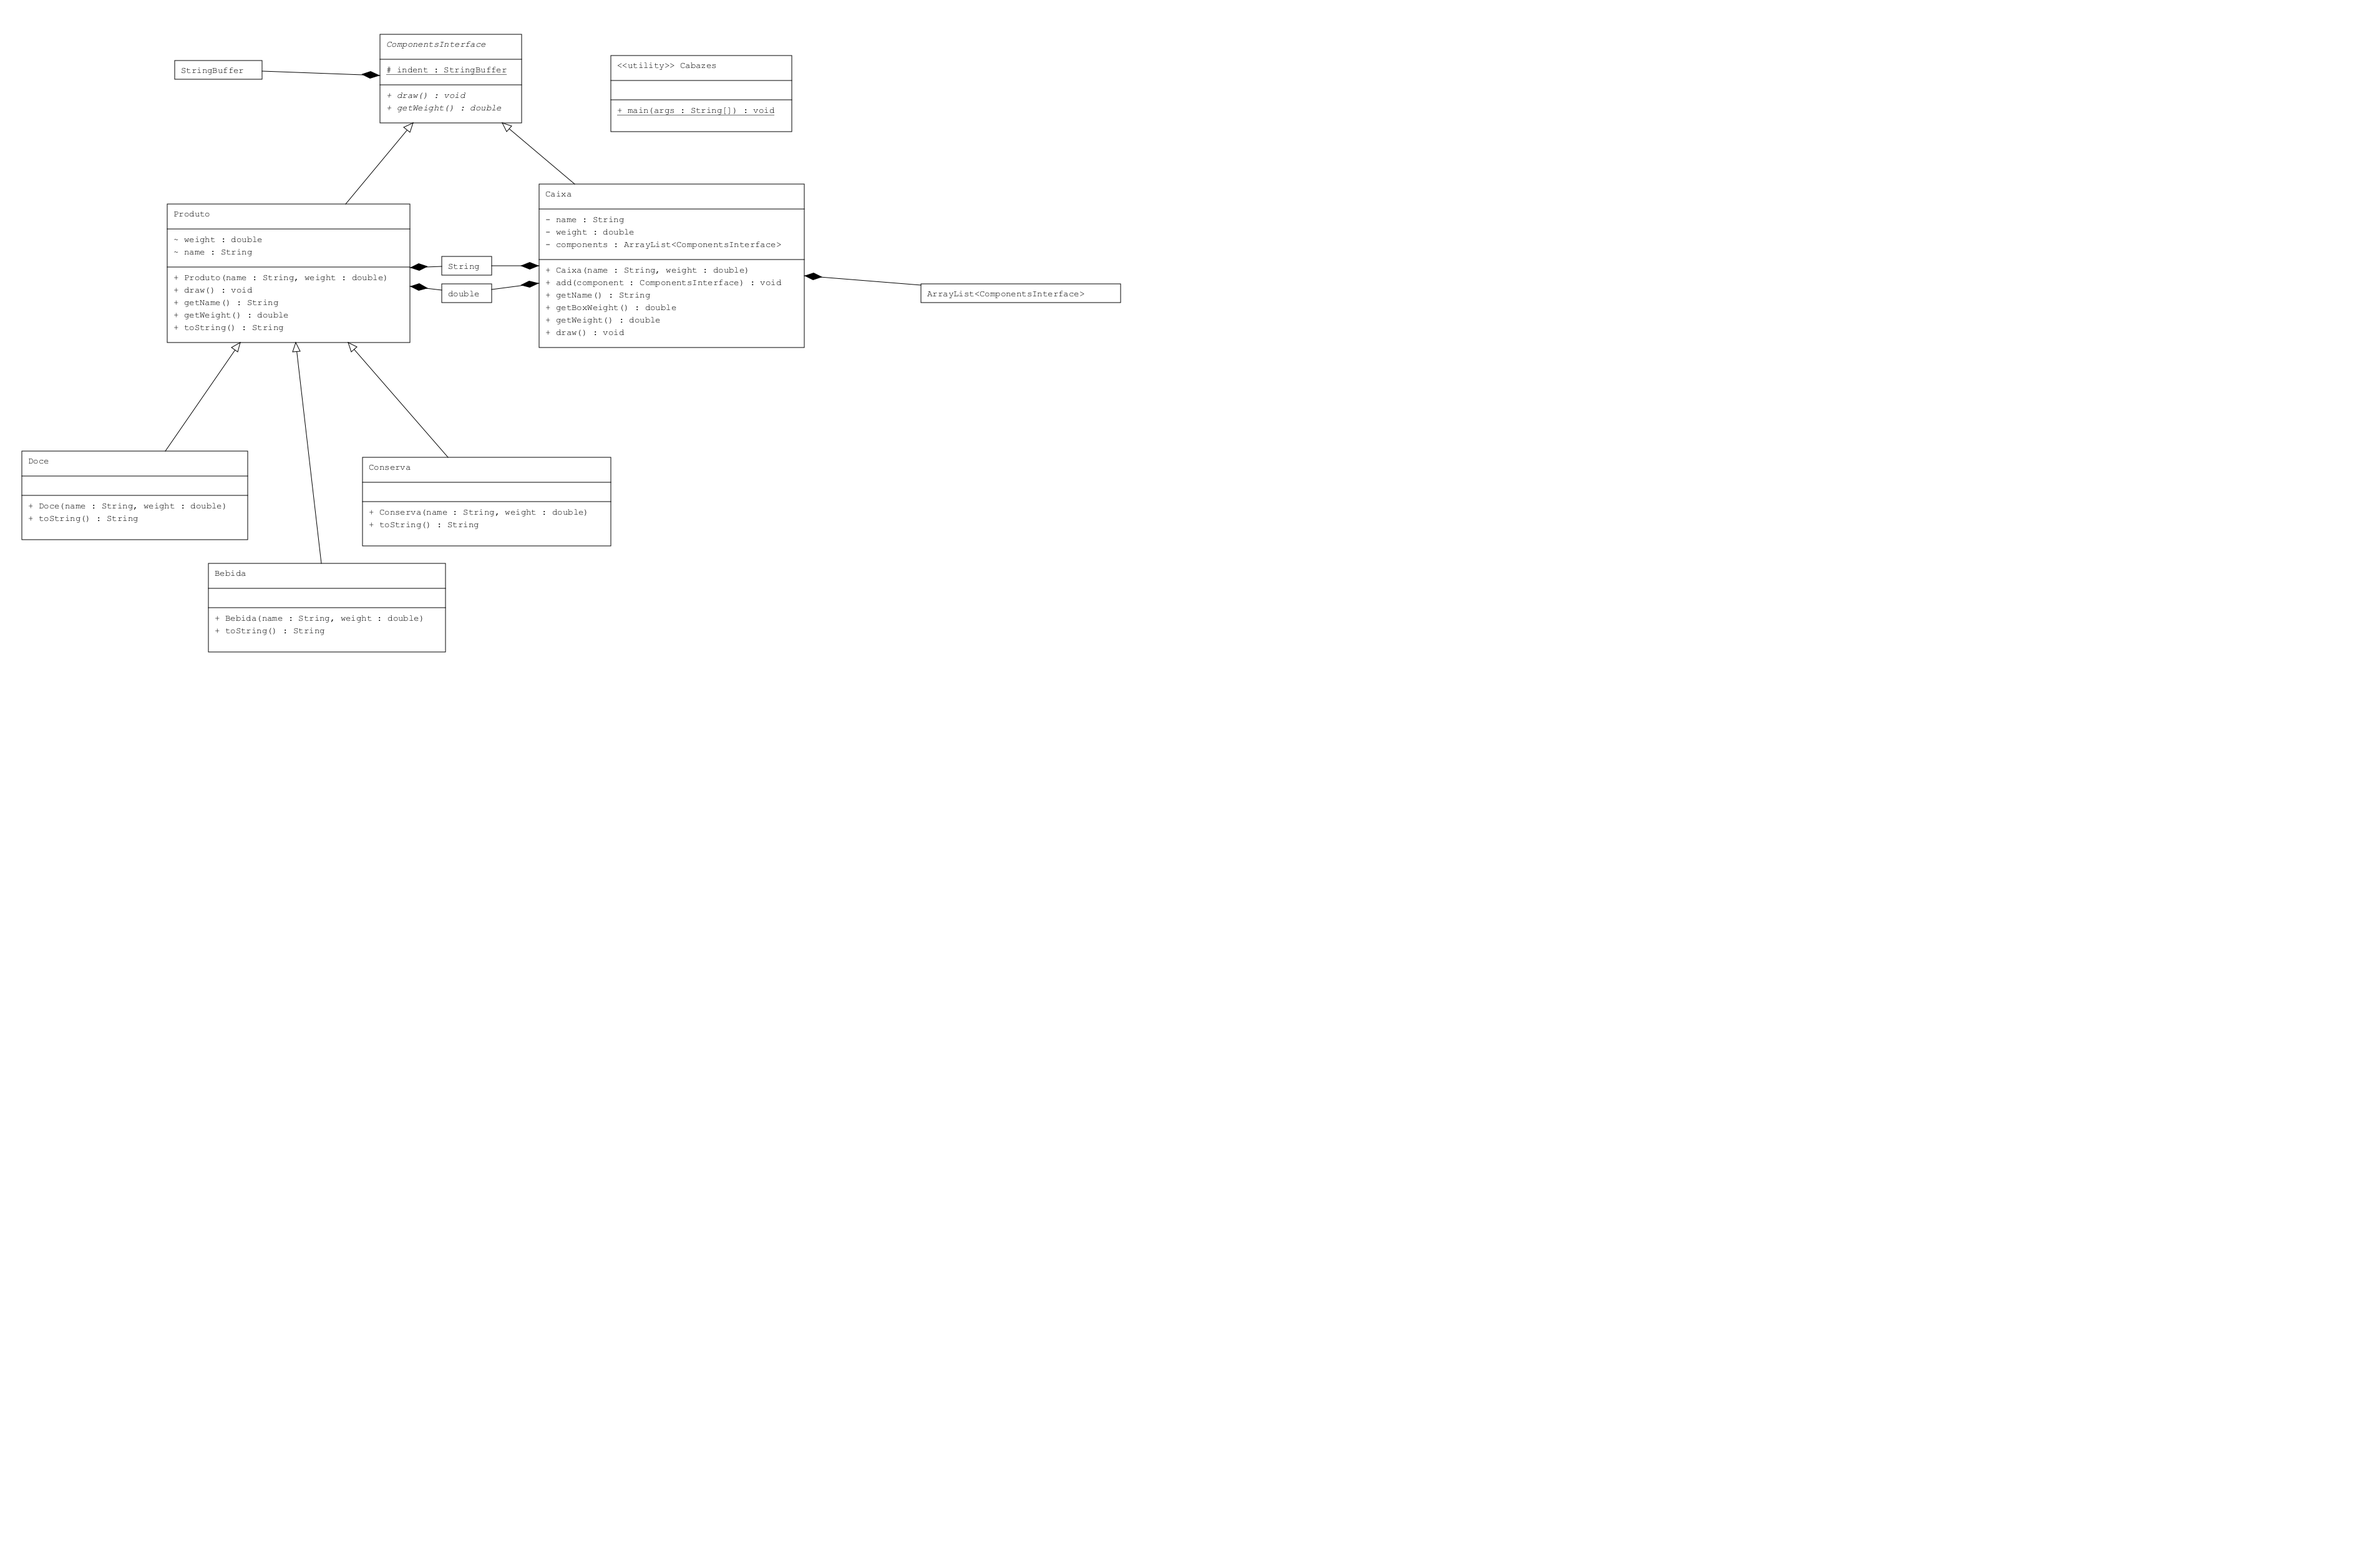
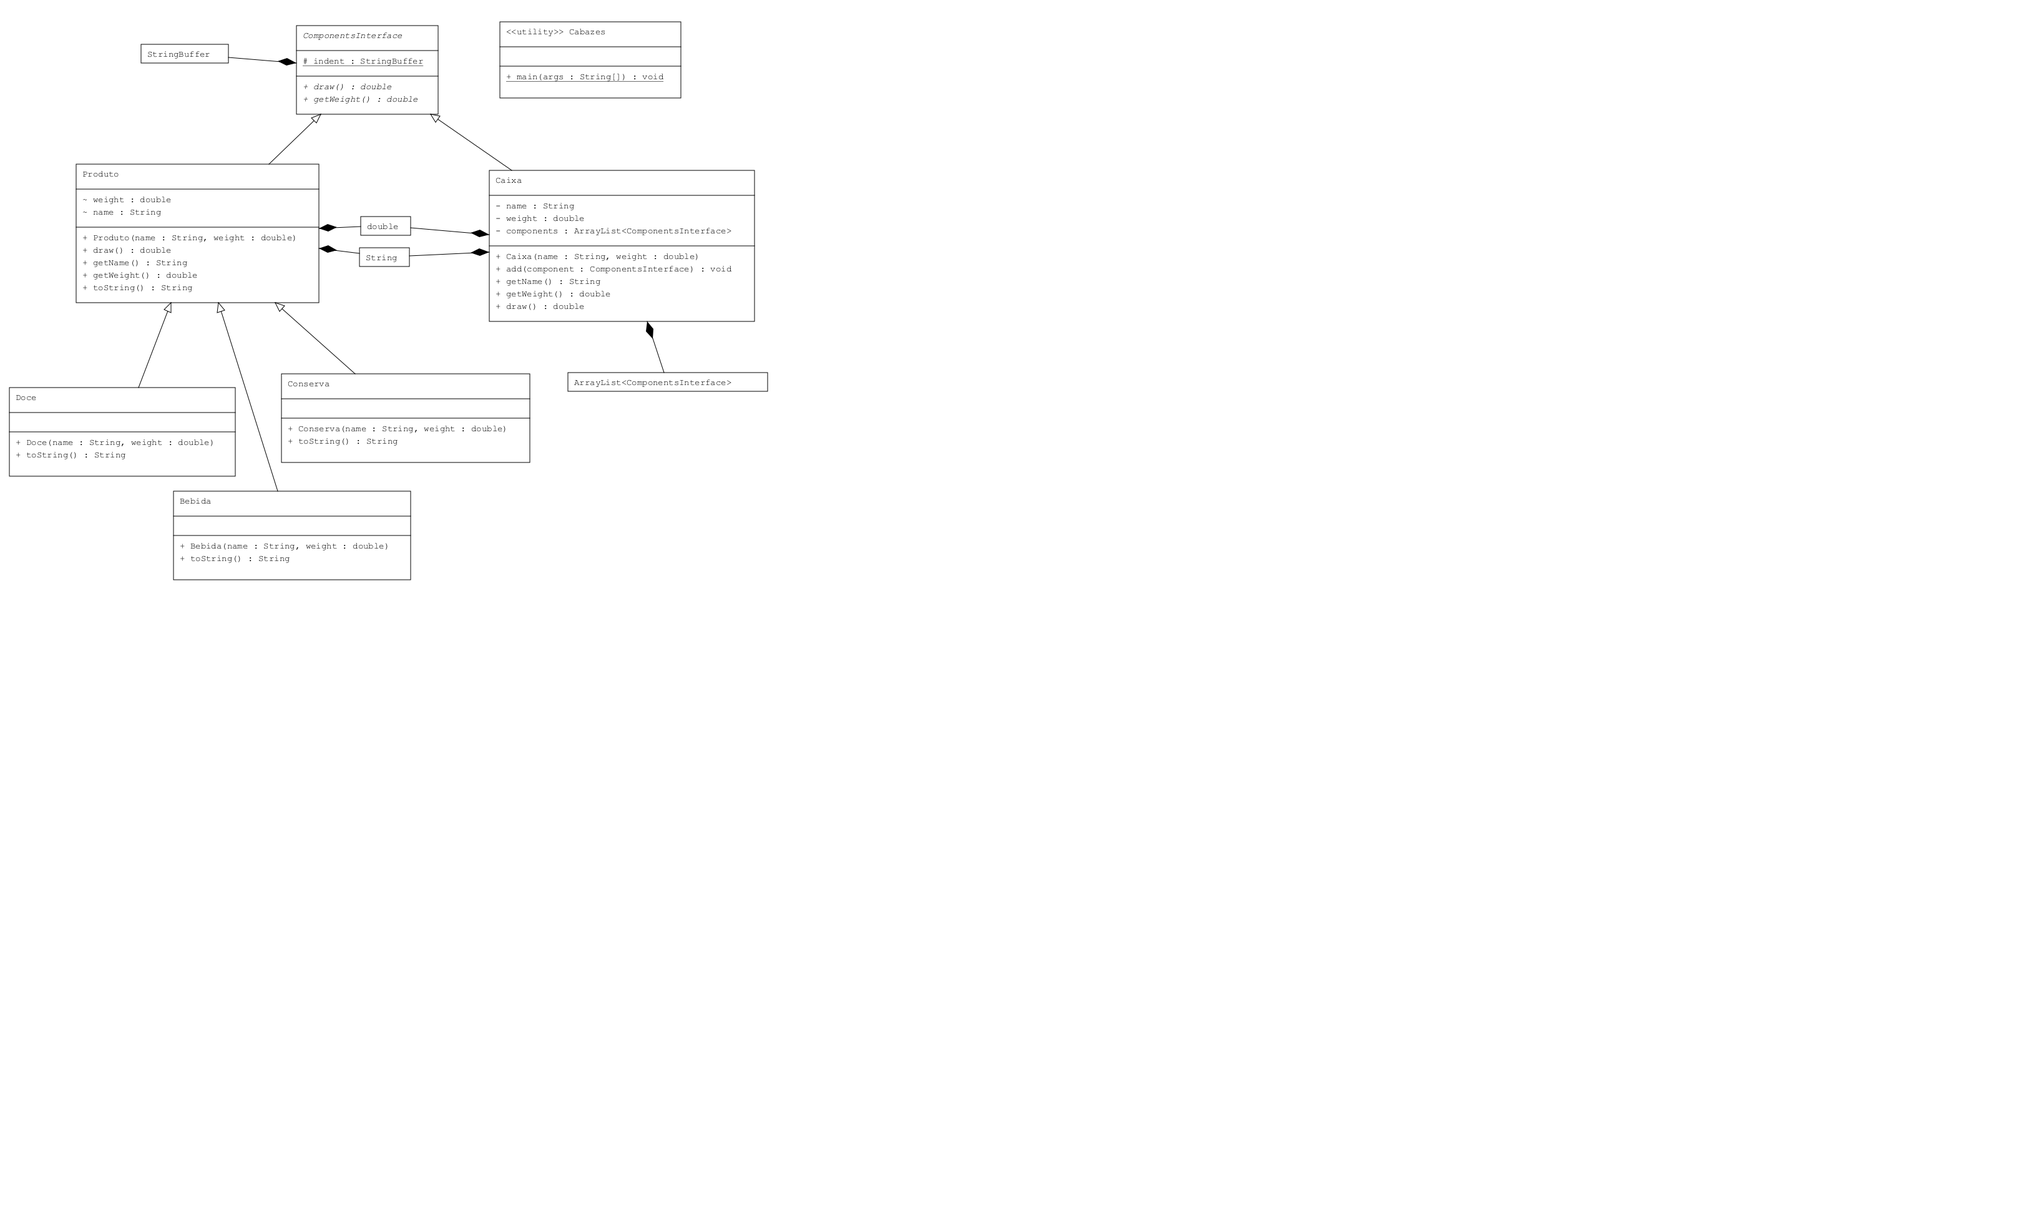
Ex_3 Done for real

diff --git a/lab07/Ex_3/Caixa.java b/lab07/Ex_3/Caixa.java
@@ -20,24 +20,18 @@ public class Caixa extends ComponentsInterface {
         return name;
     }
 
-    public double getBoxWeight(){
+    public double getWeight() {
         return this.weight;
     }
 
-    public double getWeight() {
-        double totalWeight = getBoxWeight();
-        for (ComponentsInterface component : components) {
-            totalWeight += component.getWeight();
-        }
-        return totalWeight;
-    }
-
-    public void draw(){
-        System.out.println(indent.toString() +  "* Caixa '" + this.getName() + "' [ Weight: " + this.getBoxWeight() + " ; Total: " + this.getWeight() + "]");
+    public double draw(){
+        double totalWeight = this.getWeight();
         indent.append("   ");
         for (ComponentsInterface component : components) {
-            component.draw();
+            totalWeight += component.draw();
         }
         indent.setLength(indent.length() - 3);
+        System.out.println(indent.toString() + "* Caixa '" + this.getName() + "' [ Weight: " + this.getWeight() + " ; Total: " + totalWeight + "]");
+        return totalWeight;
     }
 }

diff --git a/lab07/Ex_3/Produto.java b/lab07/Ex_3/Produto.java
@@ -8,8 +8,9 @@ public class Produto extends ComponentsInterface{
         this.weight = weight;
     }
 
-    public void draw() {
+    public double draw() {
         System.out.println(indent.toString() + this.toString());
+        return this.getWeight();
     }
 
     public String getName() {

diff --git a/lab07/Ex_3/Cabazes.java b/lab07/Ex_3/Cabazes.java
@@ -1,8 +1,3 @@
-import java.io.ByteArrayOutputStream;
-import java.io.FileDescriptor;
-import java.io.FileOutputStream;
-import java.io.PrintStream;
-
 public class Cabazes {
     public static void main(String[] args) {
         Caixa principal = new Caixa("Principal", 4);

diff --git a/lab07/Ex_3/ComponentsInterface.java b/lab07/Ex_3/ComponentsInterface.java
@@ -2,6 +2,6 @@ public abstract class ComponentsInterface {
 
     protected static StringBuffer indent = new StringBuffer();
 
-    public abstract void draw();
+    public abstract double draw();
     public abstract double getWeight();
 }
